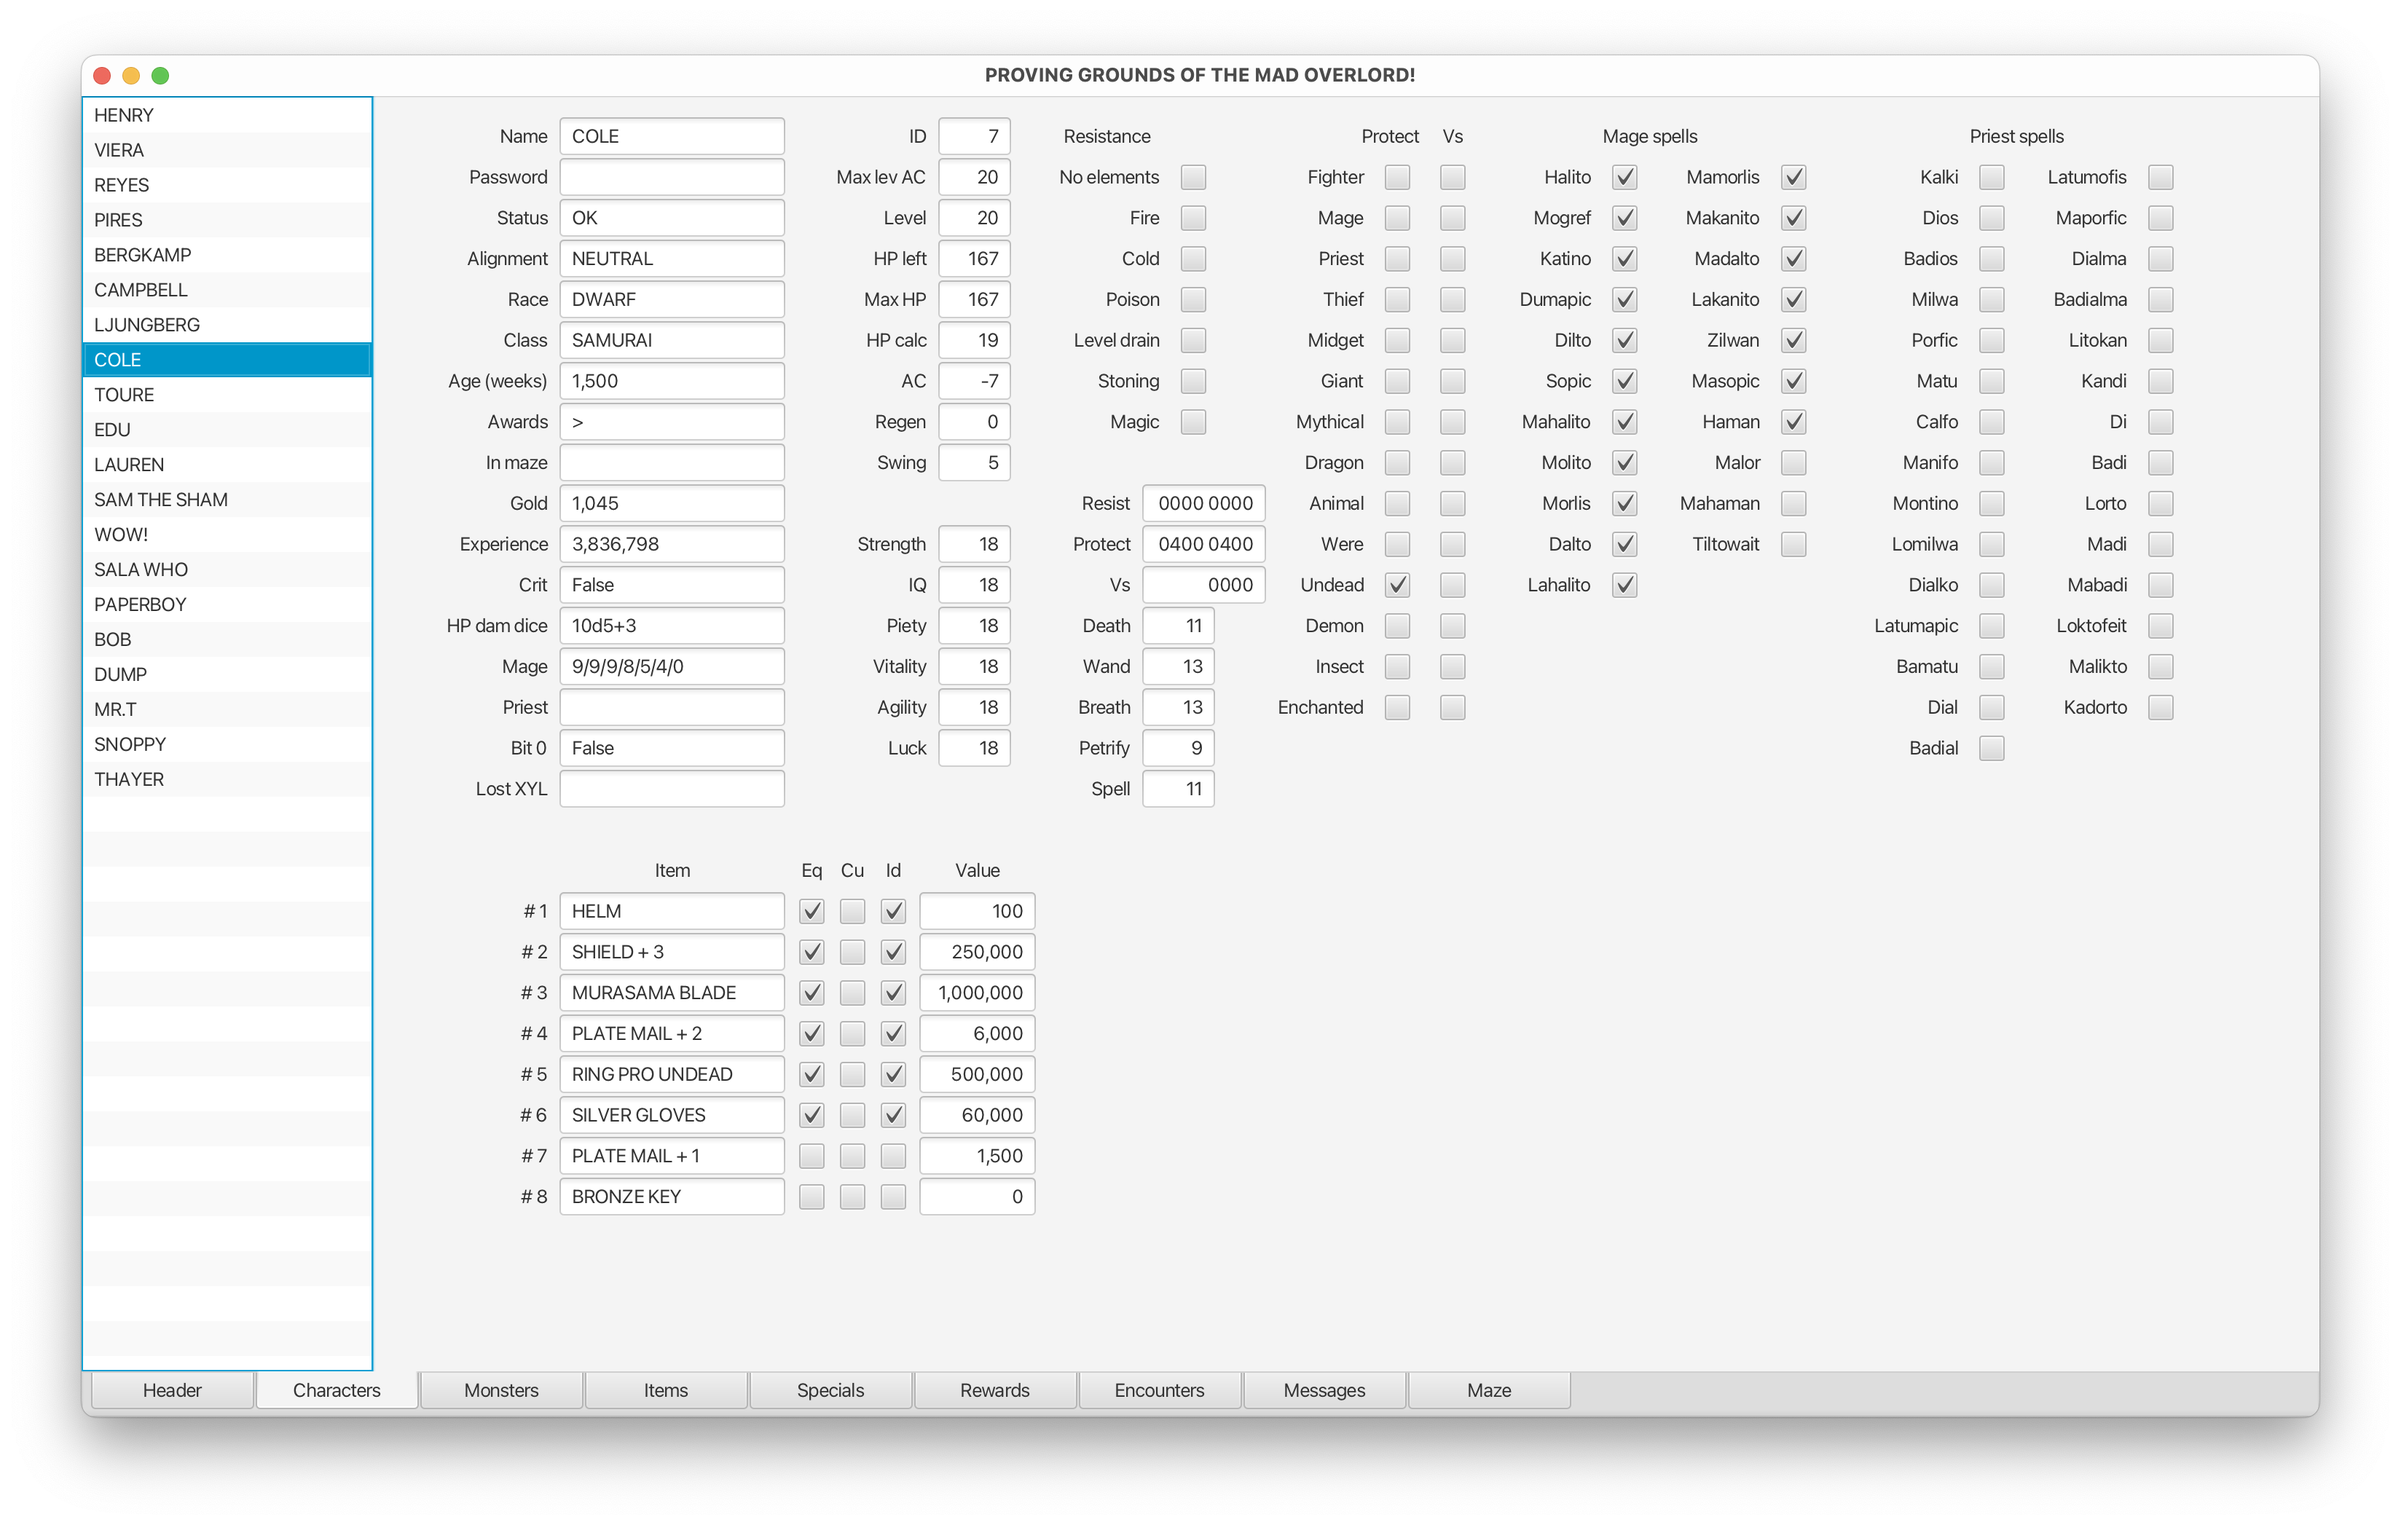
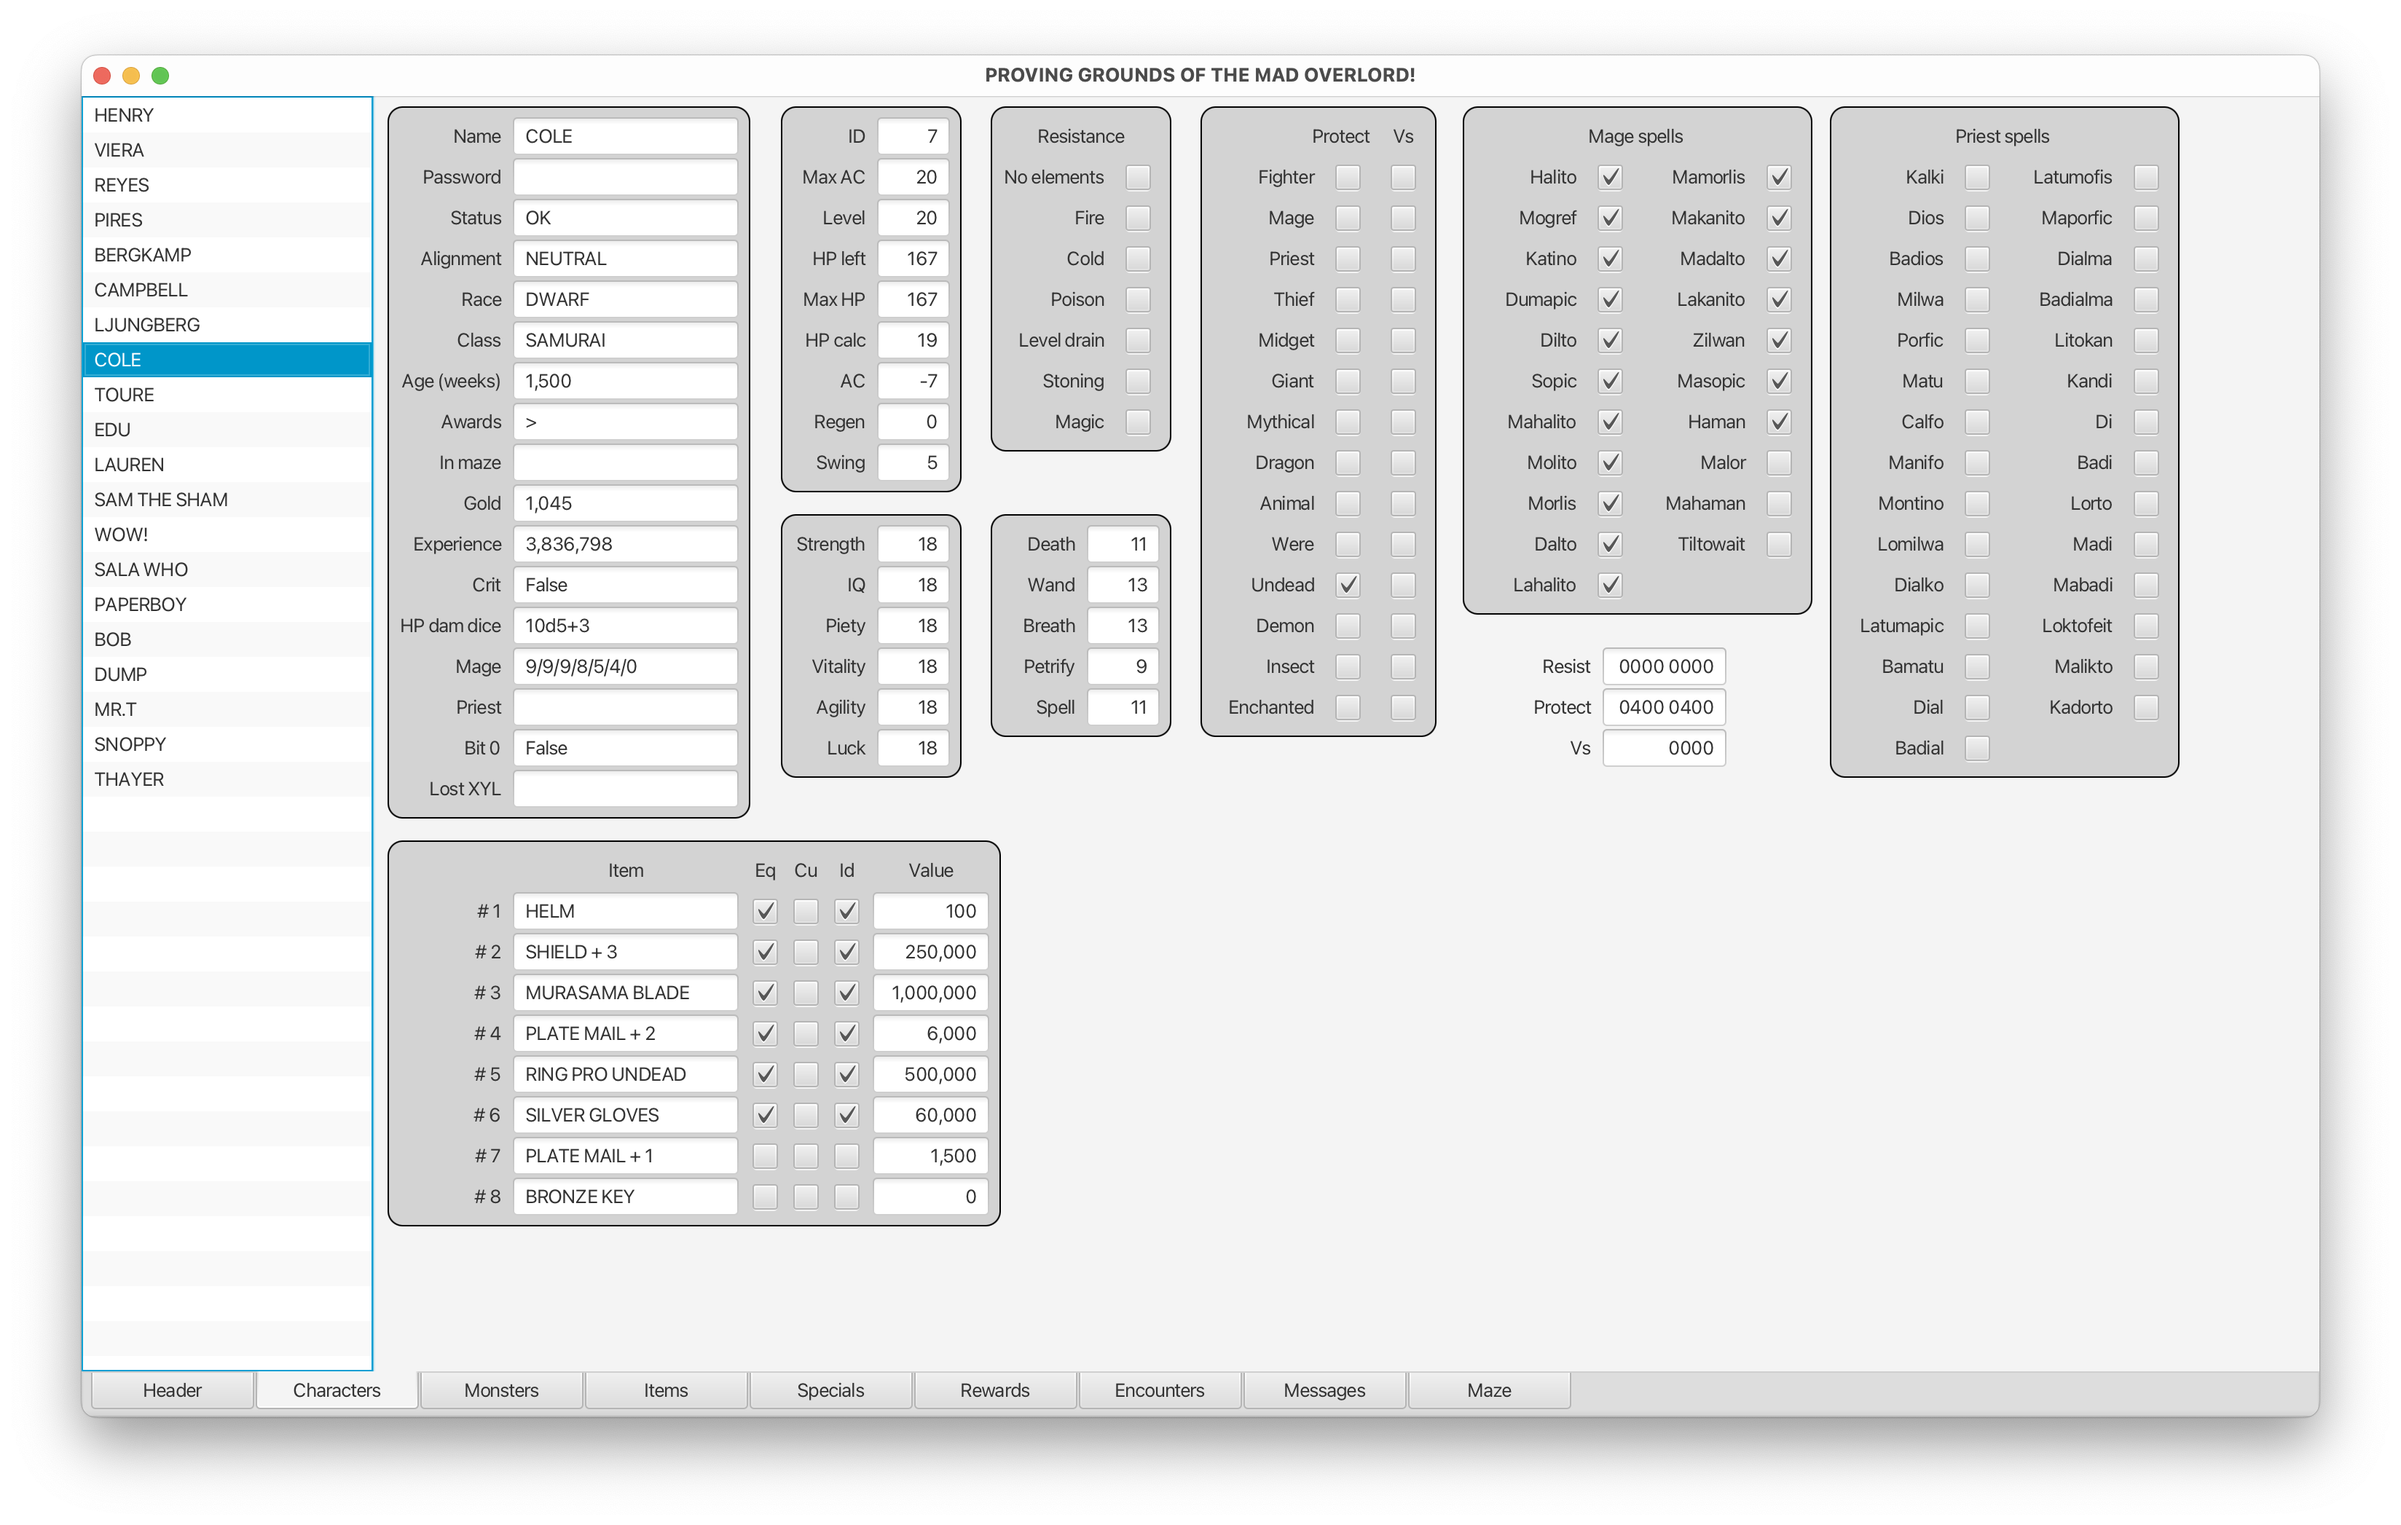
changed to display boxes

Changed region(s): [[0.1562, 0.0621, 0.9062, 0.8071]]

diff --git a/src/com/bytezone/wizardry/CharactersRootPane.java b/src/com/bytezone/wizardry/CharactersRootPane.java
@@ -30,7 +30,7 @@ public class CharactersRootPane extends DataPane
   public CharactersRootPane ()
   // ---------------------------------------------------------------------------------//
   {
-    super (60, 26);                           // rows, columns
+    super (60, 30);                           // columns, rows
 
     setAllColumnConstraints (10);             // all columns 10 pixels wide
     setPadding (defaultInsets);               // only the root pane has insets
@@ -43,15 +43,15 @@ public class CharactersRootPane extends DataPane
     setLayout (characterPane2, 15, 0);
     setLayout (sipvalPane, 15, 10);           // Strength/IQ/Piety/Vitality/Agility/Luck
 
-    setLayout (resistancePane, 24, 0);        // resistance
-    setLayout (savingThrowPane, 24, 10);      // SaveVs
-    setLayout (partyPane, 24, 19);            // only shown for scenario #4
+    setLayout (resistancePane, 23, 0);
+    setLayout (savingThrowPane, 23, 10);
+    setLayout (partyPane, 24, 18);            // only shown for scenario #4
 
-    setLayout (monsterProtectPane, 33, 0);    // protect/vs 
-    setLayout (mageSpellsPane, 43, 0);
-    setLayout (priestSpellsPane, 57, 0);
+    setLayout (monsterProtectPane, 31, 0);    // protect/vs 
+    setLayout (mageSpellsPane, 41, 0);
+    setLayout (priestSpellsPane, 55, 0);
 
-    setLayout (tempWepVsPane, 40, 13);         // 3 WepVs values (temporary)
+    setLayout (tempWepVsPane, 42, 13);         // 3 WepVs values (temporary)
 
     getChildren ().addAll (characterPane1, characterPane2, sipvalPane, savingThrowPane,
         tempWepVsPane, monsterProtectPane, resistancePane, mageSpellsPane, priestSpellsPane,

diff --git a/src/com/bytezone/wizardry/CharacterPane3.java b/src/com/bytezone/wizardry/CharacterPane3.java
@@ -15,15 +15,13 @@ public class CharacterPane3 extends BorderedDataPane
 {
   private TextField[] textOut;
 
-  private WizardryData wizardry;
-
   // ---------------------------------------------------------------------------------//
   public CharacterPane3 ()
   // ---------------------------------------------------------------------------------//
   {
     super (2, 6);                             // columns, rows
 
-    setColumnConstraints (70, 50);
+    setColumnConstraints (50, 50);
 
     String[] labelText = { "Strength", "IQ", "Piety", "Vitality", "Agility", "Luck" };
     assert getRows () == labelText.length;
@@ -36,8 +34,6 @@ public class CharacterPane3 extends BorderedDataPane
   void setWizardry (WizardryData wizardry)
   // ---------------------------------------------------------------------------------//
   {
-    this.wizardry = wizardry;
-
     reset (textOut);
   }
 

diff --git a/src/com/bytezone/wizardry/CharacterPane2.java b/src/com/bytezone/wizardry/CharacterPane2.java
@@ -33,10 +33,10 @@ public class CharacterPane2 extends BorderedDataPane
   {
     super (2, 9);                             // columns, rows
 
-    setColumnConstraints (70, 50);
+    setColumnConstraints (50, 50);
 
     String[] labelText =
-        { "ID", "Max lev AC", "Level", "HP left", "Max HP", "HP calc", "AC", "Regen", "Swing" };
+        { "ID", "Max AC", "Level", "HP left", "Max HP", "HP calc", "AC", "Regen", "Swing" };
     assert getRows () == labelText.length;
 
     createLabelsVertical (labelText, 0, 0, HPos.RIGHT);

diff --git a/src/com/bytezone/wizardry/SavingThrowPane.java b/src/com/bytezone/wizardry/SavingThrowPane.java
@@ -21,7 +21,7 @@ public class SavingThrowPane extends BorderedDataPane
   {
     super (2, 5);                             // columns, rows
 
-    setColumnConstraints (70, 50);
+    setColumnConstraints (50, 50);
 
     String[] labelText = { "Death", "Wand", "Breath", "Petrify", "Spell" };
     assert getRows () == labelText.length;

diff --git a/src/com/bytezone/wizardry/TempWepVsPane.java b/src/com/bytezone/wizardry/TempWepVsPane.java
@@ -21,7 +21,7 @@ public class TempWepVsPane extends DataPane
   {
     super (2, 3);                             // columns, rows
 
-    setColumnConstraints (90, 85);
+    setColumnConstraints (70, 85);
 
     String[] labelText = { "Resist", "Protect", "Vs" };
     assert getRows () == labelText.length;
